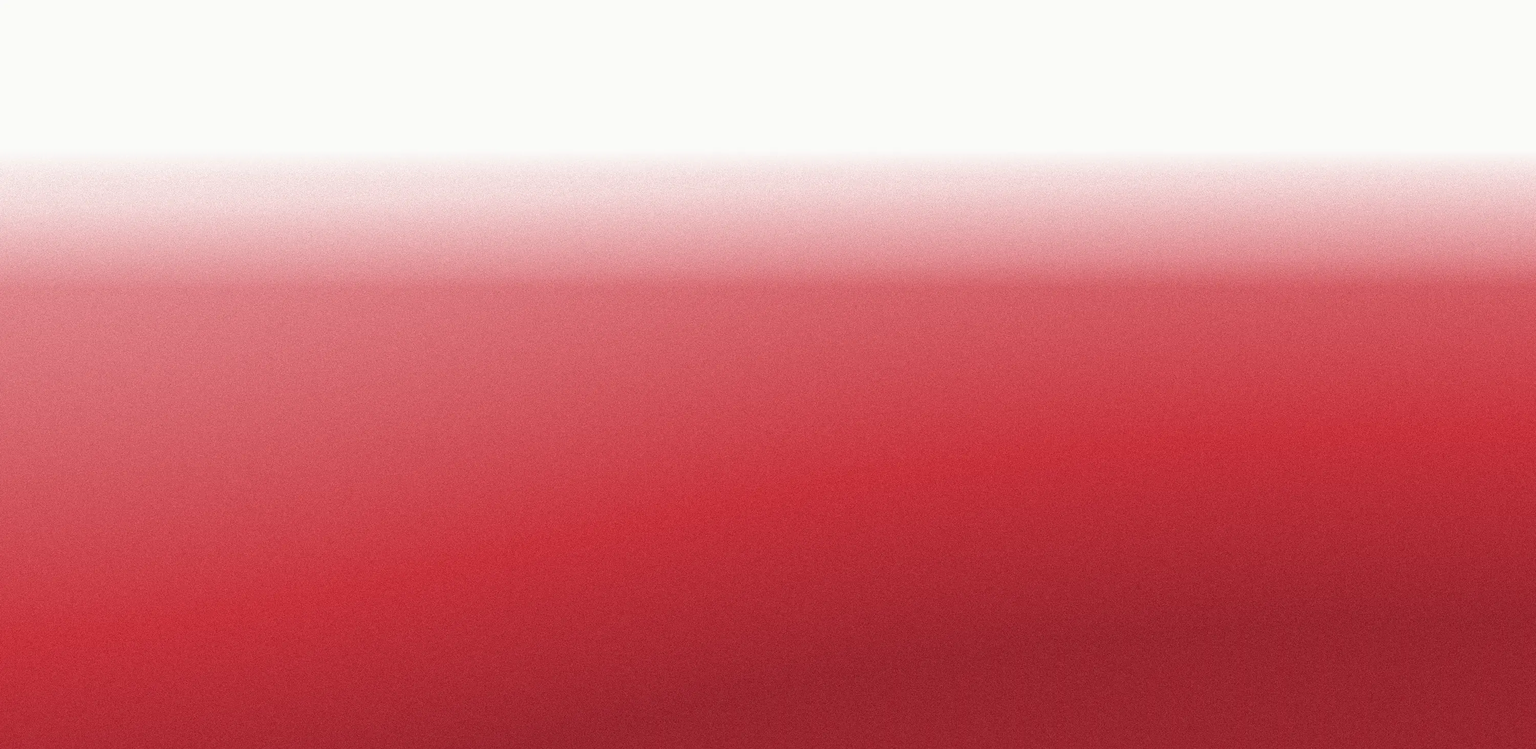
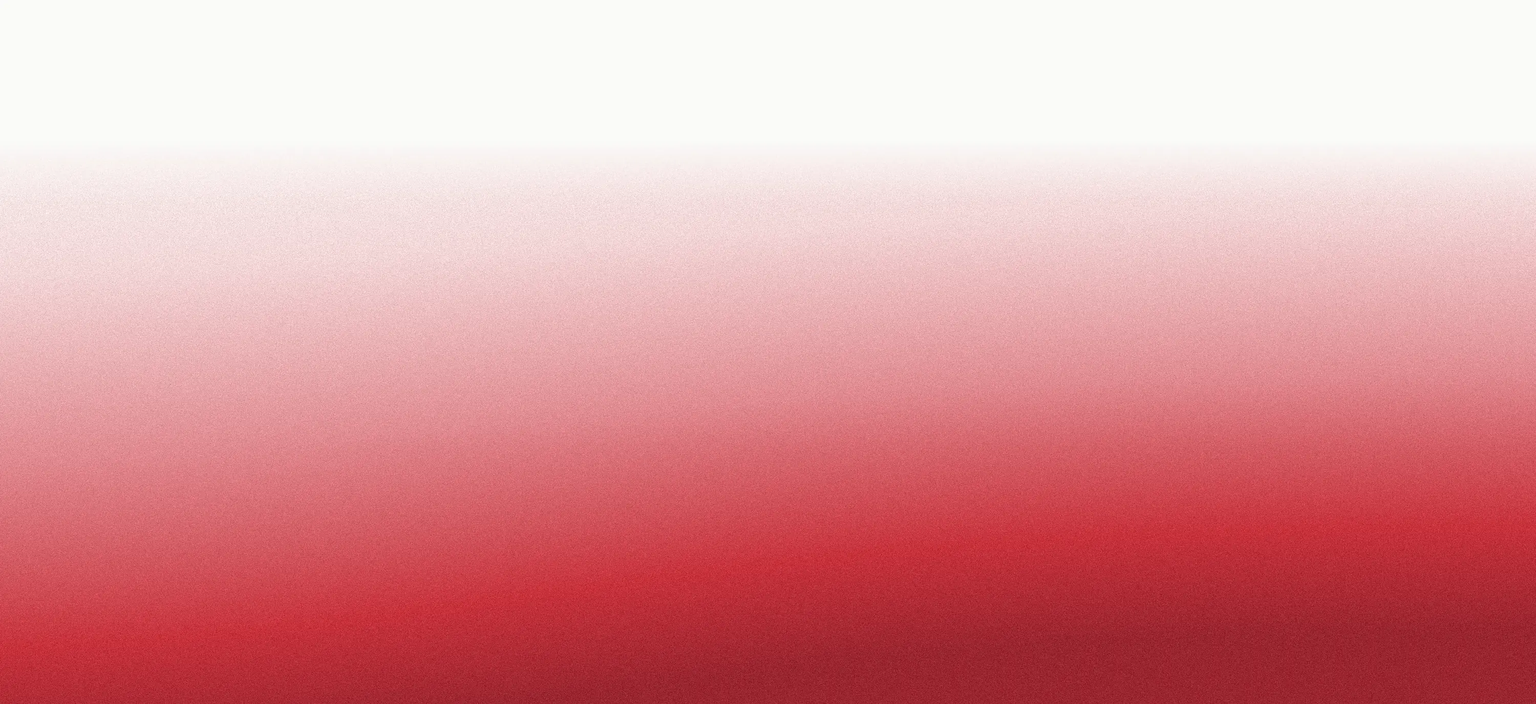
chore(texturas): PC — el degradado ocupa el tercio inferior con una rampa larga (v2.3)
Segunda tanda de QA en PC: el rojo llegaba a la mitad de la pantalla y la
transición papel → rojo era corta. La rampa pasa a ser parámetro de línea de
comando: hero 12 vh de rojo pleno con rampa 2,75 y cierre 15 vh con rampa 2,2;
la banda mide 41,25 svh y, descontado el 20 % de papel bajo la máscara, el
degradado visible ocupa 33 vh. Mobile conserva la rampa 1,3 (30/50 vh). OG con
la misma receta.

diff --git a/tools/texturas/generar.py b/tools/texturas/generar.py
@@ -13,15 +13,16 @@ Uso:
   python tools/texturas/generar.py banda ANCHO ALTO ROJO salida.webp
   # set de la landing (2x/3x, servido por <picture> + srcset, nada se estira). El alto es
   # 1,25 × RAMPA × ROJO: el 20 % superior queda de papel puro, que es lo que la máscara CSS
-  # del borde (18 %) funde con el fondo. En CSS la banda mide 1,625 × el rojo en vh:
-  # hero 48,75 svh (30 vh de rojo) en mobile y 42,25 svh (26 vh) en desktop; cierre 81,25 svh
-  # (50 vh) en mobile y 65 svh (40 vh) en desktop.
+  # del borde (18 %) funde con el fondo. En CSS la banda mide 1,25 × RAMPA × el rojo en vh.
+  # Mobile (rampa 1,3): hero 30 vh de rojo → 48,75 svh; cierre 50 vh → 81,25 svh.
+  # PC (v2.3, rampa larga = tercio inferior y transición suave): hero 12 vh de rojo con
+  # rampa 2,75 → banda 41,25 svh; cierre 15 vh con rampa 2,2 → 41,25 svh.
   python tools/texturas/generar.py banda 1200  975  600 public/landing/textura-hero-m2x.webp
   python tools/texturas/generar.py banda 1800 1463  900 public/landing/textura-hero-m3x.webp
-  python tools/texturas/generar.py banda 3000  975  600 public/landing/textura-hero-d2x.webp
+  python tools/texturas/generar.py banda 3000 1375  400 public/landing/textura-hero-d2x.webp 2.75
   python tools/texturas/generar.py banda 1200 1463  900 public/landing/textura-cierre-m2x.webp
-  python tools/texturas/generar.py banda 3000 1463  900 public/landing/textura-cierre-d2x.webp
-  python tools/texturas/generar.py banda 1200  630  190 public/landing/og-hero.jpg   # OG (JPEG: Satori no lee WebP)
+  python tools/texturas/generar.py banda 3000 1375  500 public/landing/textura-cierre-d2x.webp 2.2
+  python tools/texturas/generar.py banda 1200  630  150 public/landing/og-hero.jpg 2.75   # OG (JPEG: Satori no lee WebP)
   # receta v1 (proporción del lienzo), por si hace falta reproducirla:
   python tools/texturas/generar.py hero 1440 1600 salida.webp · cierre 1440 1000 salida.webp
 Requiere: numpy, Pillow (`python -m pip install numpy pillow`).
@@ -67,20 +68,21 @@ def colormap(v):
         out[m] = hexc(c0) * (1 - t) + hexc(c1) * t
     return out
 
-RAMPA = 1.3  # v2.2 (FASE 1.5): el papel llega a 1,3 × rojo (antes 1,67): rampa más corta
+RAMPA = 1.3  # v2.2: el papel llega a RAMPA × rojo. Por línea de comando se puede pasar otra
+             # (v2.3, PC: 2,75 en el hero y 2,2 en el cierre = transición más larga y suave)
 
-def bias_banda(h, rojo):
+def bias_banda(h, rojo, rampa=RAMPA):
     """v2.2: rampa desde abajo, en dos tramos. v = 1 en el borde inferior y 0,6 (rojo
-    pleno) a `rojo` px; de ahí baja a 0 (papel) en RAMPA × rojo; más arriba, papel liso."""
+    pleno) a `rojo` px; de ahí baja a 0 (papel) en `rampa` × rojo; más arriba, papel liso."""
     def fn(x, y):
         d = (1 - y) * h                      # px desde abajo
         t = d / rojo
-        v = np.where(t <= 1, 1 - 0.4 * t, 0.6 * (RAMPA - t) / (RAMPA - 1))
+        v = np.where(t <= 1, 1 - 0.4 * t, 0.6 * (rampa - t) / (rampa - 1))
         return np.clip(v, 0, 1)
     return fn
 
-def render(kind, w, h, out, seed=7, rojo=None):
-    bias_fn = bias_banda(h, rojo) if kind == 'banda' else COMPOSICION[kind]
+def render(kind, w, h, out, seed=7, rojo=None, rampa=RAMPA):
+    bias_fn = bias_banda(h, rojo, rampa) if kind == 'banda' else COMPOSICION[kind]
     f = field(w, h, seed)
     yy, xx = np.mgrid[0:h, 0:w]
     b = bias_fn(xx / w, yy / h)
@@ -109,7 +111,8 @@ if __name__ == '__main__':
     kind = sys.argv[1]
     if kind == 'banda':
         w, h, rojo, out = int(sys.argv[2]), int(sys.argv[3]), int(sys.argv[4]), sys.argv[5]
-        render(kind, w, h, out, rojo=rojo)
+        rampa = float(sys.argv[6]) if len(sys.argv) > 6 else RAMPA
+        render(kind, w, h, out, rojo=rojo, rampa=rampa)
     else:
         w, h, out = int(sys.argv[2]), int(sys.argv[3]), sys.argv[4]
         render(kind, w, h, out)
